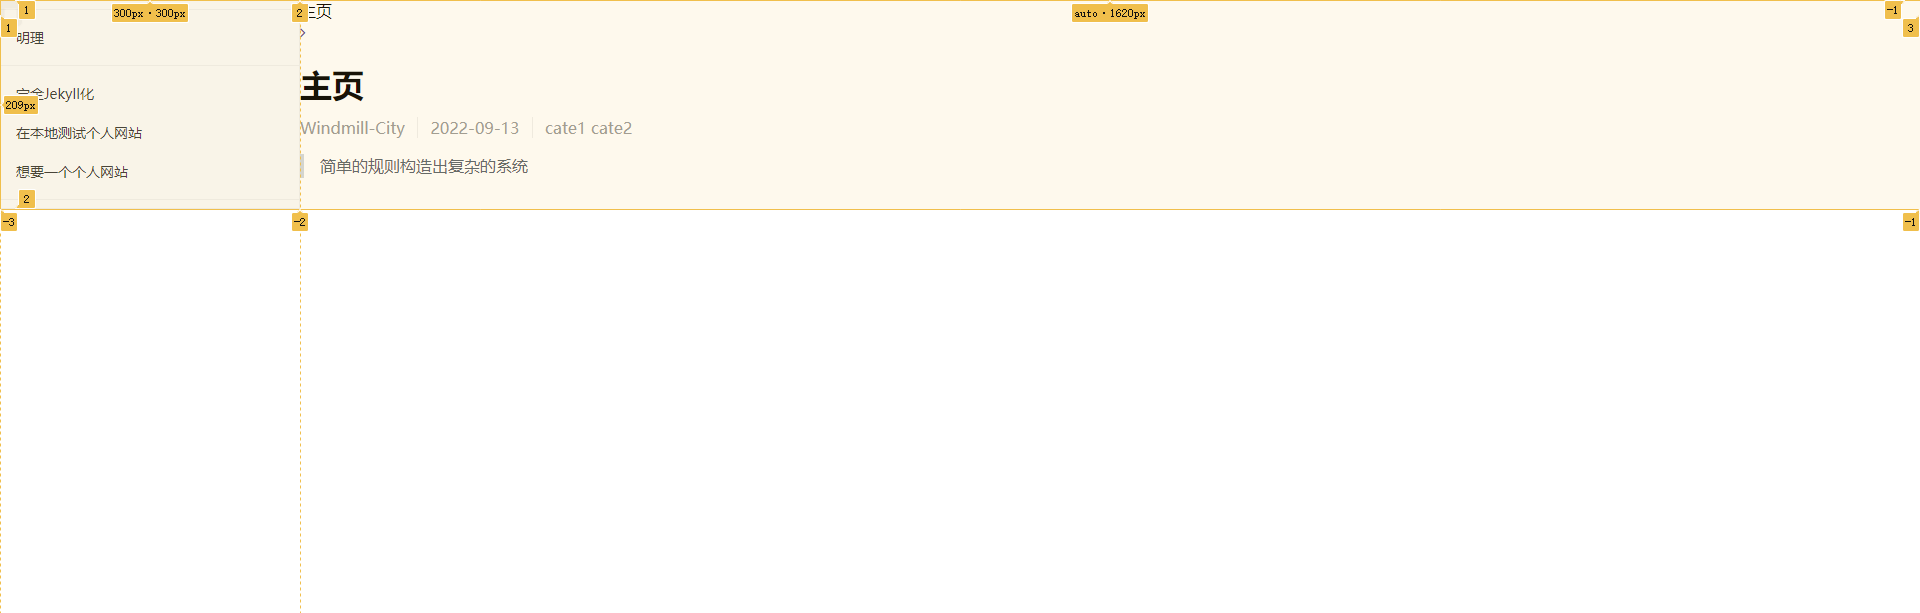
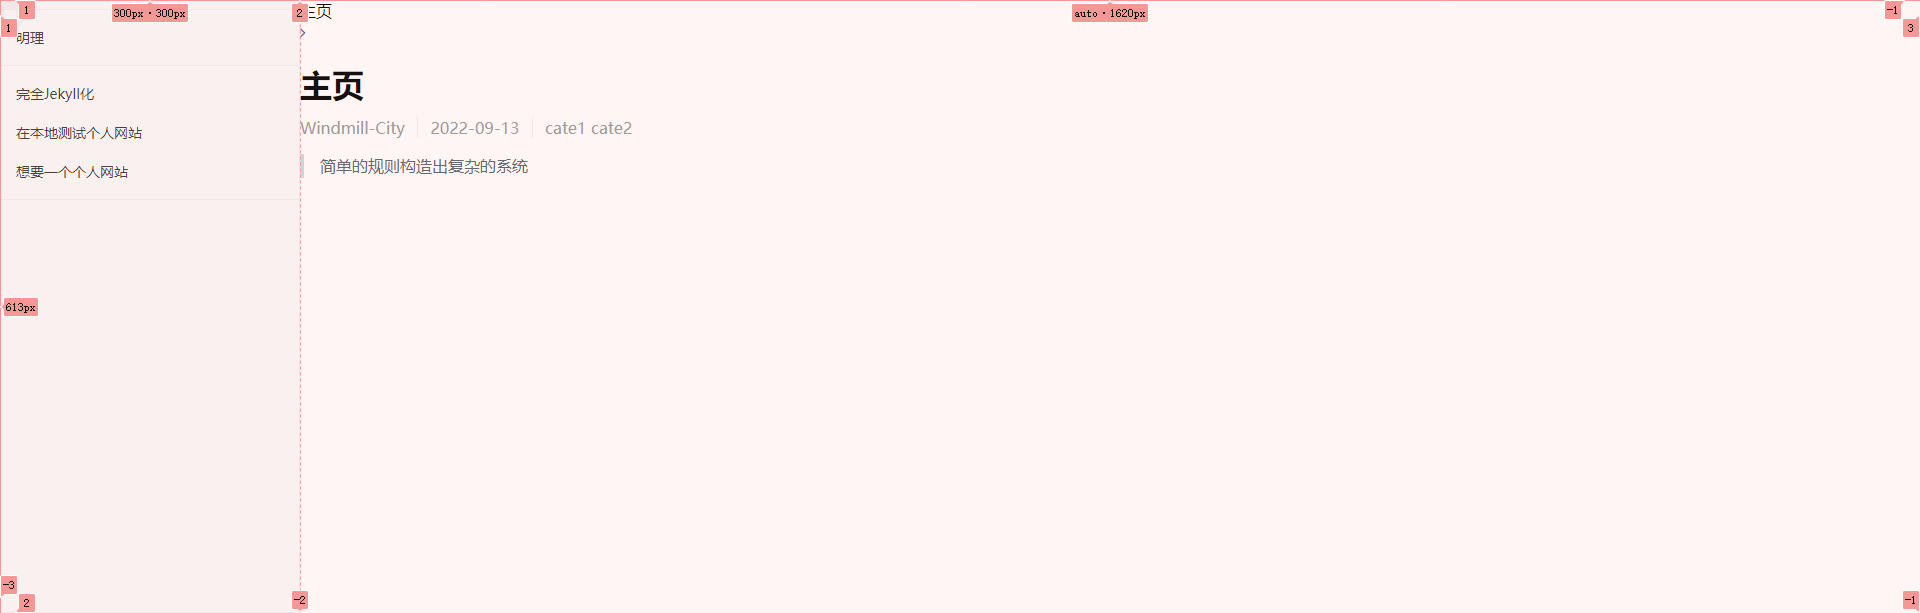
fix

diff --git a/_layouts/home.html b/_layouts/home.html
@@ -37,23 +37,24 @@
         <div class="nav-top">
             <a>{{ page.title }}</a>
         </div>
-        <!--Prev Page-->
-        <div class="nav-prev">
-            {% if page.previous %}
-            <a href="{{ page.previous.url }}" aria-label="{{ page.previous.title }}">
-                <i class="fa fa-angle-left"></i>
-            </a>
-            {% endif %}
-        </div>
-        <!--Next Page-->
-        <div class="nav-next">
-            {% if page.next or site.posts.first %}
-            <a href="{{ page.next.url | default: site.posts.first.url }}"
-                aria-label="{{ page.next.title | default: site.posts.first.title }}">
-                <i class="fa fa-angle-right"></i>
-            </a>
-            {% endif %}
-        </div>
+        <div class="page-wrapper">
+            <!--Prev Page-->
+            <div class="nav-prev">
+                {% if page.previous %}
+                <a href="{{ page.previous.url }}" aria-label="{{ page.previous.title }}">
+                    <i class="fa fa-angle-left"></i>
+                </a>
+                {% endif %}
+            </div>
+            <!--Next Page-->
+            <div class="nav-next">
+                {% if page.next or site.posts.first %}
+                <a href="{{ page.next.url | default: site.posts.first.url }}"
+                    aria-label="{{ page.next.title | default: site.posts.first.title }}">
+                    <i class="fa fa-angle-right"></i>
+                </a>
+                {% endif %}
+            </div>
     <div class="page">
         <!--Title-->
         <h1>{{ page.title }}</h1>
@@ -85,6 +86,7 @@
             {{ content }}
         </section>
     </div>
+        </div>
     </div>
 </body>
 

diff --git a/个人网站/_posts/2022-9-13-完全Jekyll化.md b/个人网站/_posts/2022-9-13-完全Jekyll化.md
@@ -537,11 +537,17 @@ git clone git@github.com:sindresorhus/github-markdown-css.git
 
 ```diff
 +++ b/_sass/main.scss
-@@ -0,0 +1,9 @@
-+body {
-+    display: grid;
-+    grid-template-columns: 300px auto;
-+    margin: 0;
+@@ -0,0 +1,15 @@
++html {
++    height: 100%;
++
++    body {
++        height: 100%;
++
++        display: grid;
++        grid-template-columns: 300px auto;
++        margin: 0;
++    }
 +}
 +
 +.page {
@@ -564,7 +570,7 @@ git clone git@github.com:sindresorhus/github-markdown-css.git
  </head>
 
  <body>
-@@ -31,6 +32,28 @@
+@@ -31,6 +32,29 @@
              </ul>
          </ul>
      </div>
@@ -573,33 +579,35 @@ git clone git@github.com:sindresorhus/github-markdown-css.git
 +        <div class="nav-top">
 +            <a>{{ page.title }}</a>
 +        </div>
-+        <!--Prev Page-->
-+        <div class="nav-prev">
-+            {% if page.previous %}
-+            <a href="{{ page.previous.url }}" aria-label="{{ page.previous.title }}">
-+                <i class="fa fa-angle-left"></i>
-+            </a>
-+            {% endif %}
-+        </div>
-+        <!--Next Page-->
-+        <div class="nav-next">
-+            {% if page.next or site.posts.first %}
-+            <a href="{{ page.next.url | default: site.posts.first.url }}"
-+                aria-label="{{ page.next.title | default: site.posts.first.title }}">
-+                <i class="fa fa-angle-right"></i>
-+            </a>
-+            {% endif %}
-+        </div>
++        <div class="page-wrapper">
++            <!--Prev Page-->
++            <div class="nav-prev">
++                {% if page.previous %}
++                <a href="{{ page.previous.url }}" aria-label="{{ page.previous.title }}">
++                    <i class="fa fa-angle-left"></i>
++                </a>
++                {% endif %}
++            </div>
++            <!--Next Page-->
++            <div class="nav-next">
++                {% if page.next or site.posts.first %}
++                <a href="{{ page.next.url | default: site.posts.first.url }}"
++                    aria-label="{{ page.next.title | default: site.posts.first.title }}">
++                    <i class="fa fa-angle-right"></i>
++                </a>
++                {% endif %}
++            </div>
      <div class="page">
          <!--Title-->
          <h1>{{ page.title }}</h1>
-@@ -62,6 +85,7 @@
+@@ -62,6 +86,8 @@
              {{ content }}
          </section>
      </div>
++        </div>
 +    </div>
  </body>
-
+ 
  </html>
 ```
 
